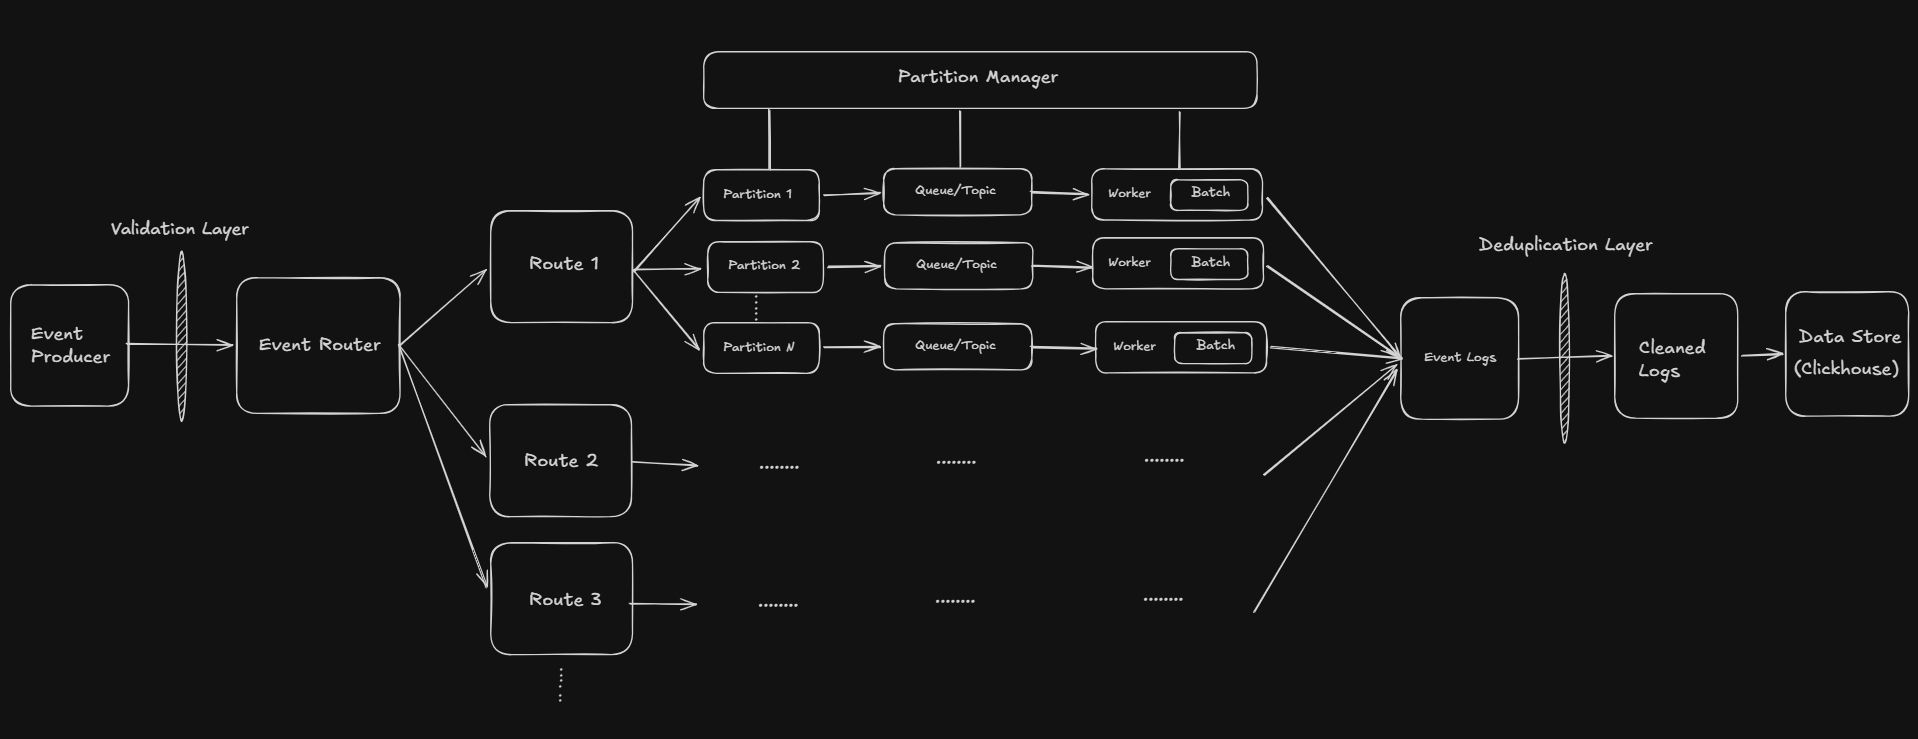
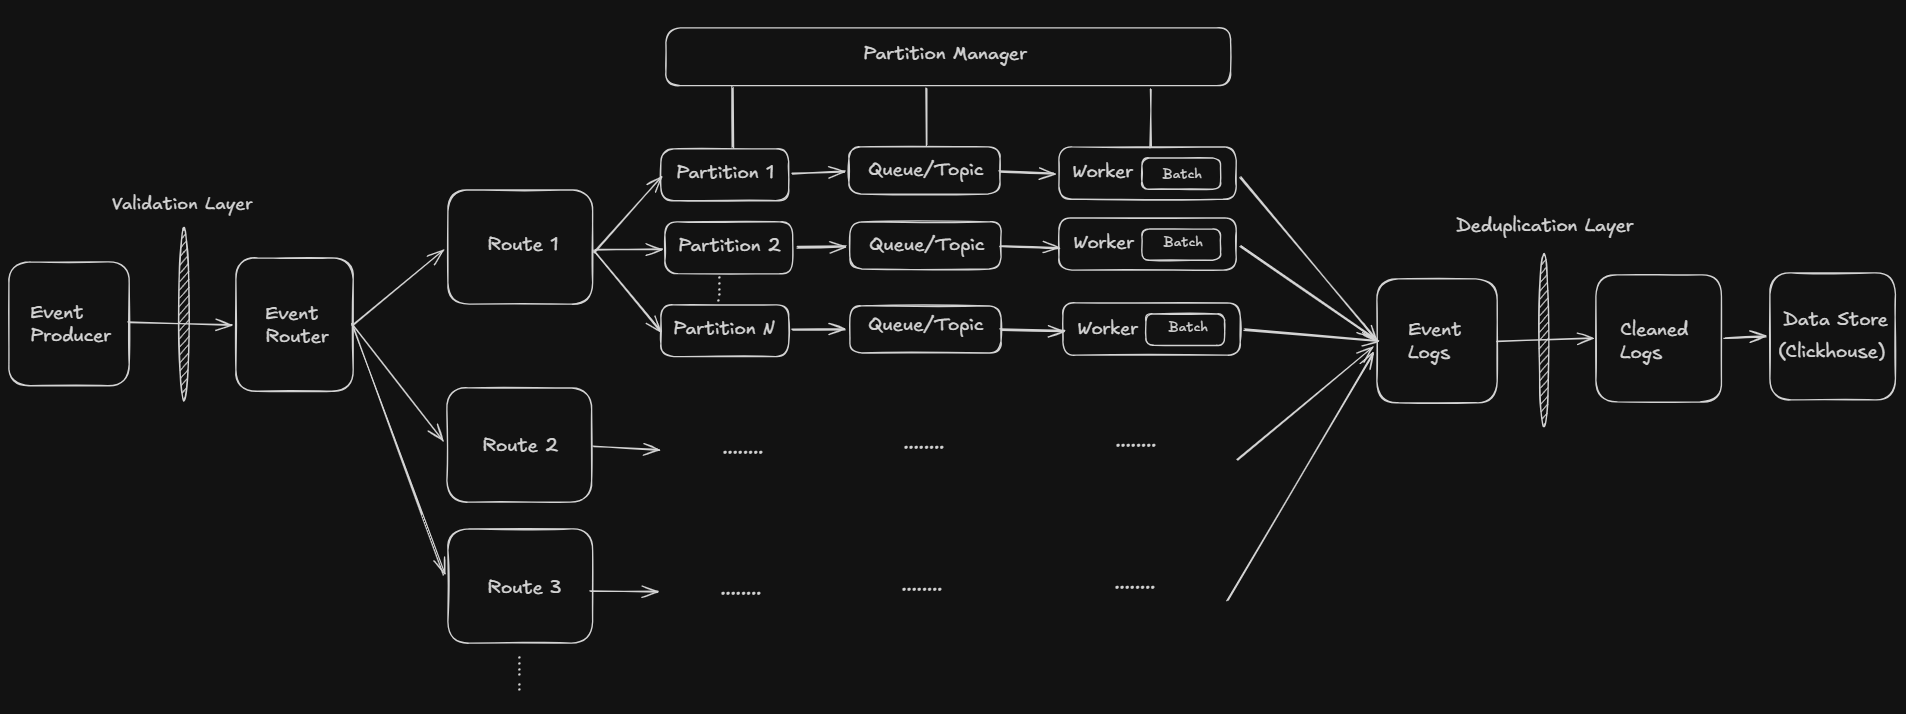
img update

diff --git a/README.md b/README.md
@@ -93,6 +93,8 @@ Persists processed events into ClickHouse for downstream analytics.
 
 ---
 
+### Architecture Diagram
+
 ![alt text](image.png)
 
 ---
